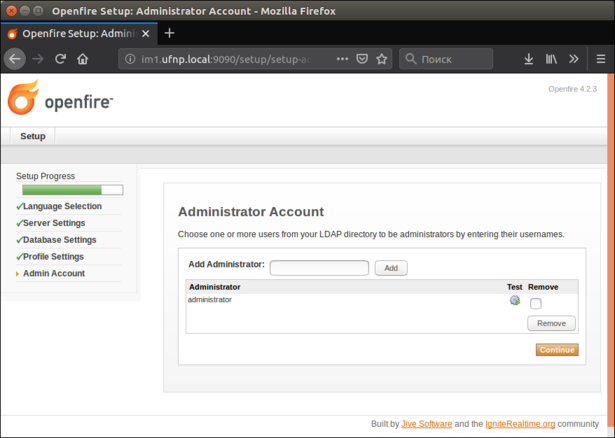
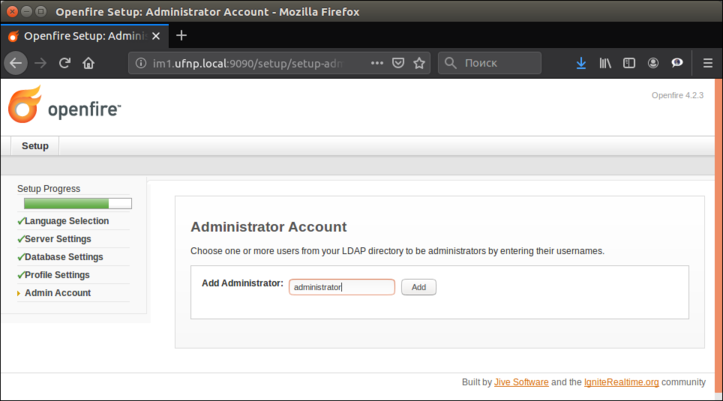
закончил писать резюме, ред.1

diff --git a/openfire.htm b/openfire.htm
@@ -50,7 +50,7 @@
 <!-- Основное содержание / начало -->
 <div id="content">
 <h1>Openfire+LDAP и Spark+SSO via GSSAPI</h1>
-<address>Последнее изменение: 06/09/2019 10:43:38</address>
+<address>Последнее изменение: 06/09/2019 11:28:10</address>
 <p>У меня всё заработало в конфигурации:</p>
 
 <ul>
@@ -64,23 +64,23 @@
 
 <p>Мастер конфигурации будет запущен при первом обращении к веб-интерфейсу. Будем настраивать по порядку в соответствие со скринами ниже:</p>
 
-<p>Язык по желанию, я оставляю английский. <span class="center"><img src="files/openfire_setup_1.png" style="width: 615px; height: 628px;" alt="Image:openfire_setup_1.png" title="Image:openfire_setup_1.png" /></span></p>
+<p>Язык по желанию, я оставляю английский. <span class="center"><img src="files/openfire_setup_1.png" style="width: 723px; height: 664px;" alt="Image:openfire_setup_1.png" title="Image:openfire_setup_1.png" /></span></p>
 
-<p>XMPP Domain Name совпадает с именем домена Windows, в поле FQDN указыаем dns-имя сервера с развернутой службой Openfire. Убедитесь, что записи (A и PTR) в прямой и обратной зоне соответственно присутствуют и корректны. <span class="center"><img src="files/openfire_setup_2.png" style="width: 615px; height: 556px;" alt="Image:openfire_setup_2.png" title="Image:openfire_setup_2.png" /></span></p>
+<p>XMPP Domain Name совпадает с именем домена Windows, в поле FQDN указыаем dns-имя сервера с развернутой службой Openfire. Убедитесь, что записи (A и PTR) в прямой и обратной зоне соответственно присутствуют и корректны. <span class="center"><img src="files/openfire_setup_2.png" style="width: 723px; height: 589px;" alt="Image:openfire_setup_2.png" title="Image:openfire_setup_2.png" /></span></p>
 
-<p>Оставляем флаг на Standart Database Connection. <span class="center"><img src="files/openfire_setup_3.png" style="width: 615px; height: 447px;" alt="Image:openfire_setup_3.png" title="Image:openfire_setup_3.png" /></span></p>
+<p>Оставляем флаг на Standart Database Connection. <span class="center"><img src="files/openfire_setup_3.png" style="width: 723px; height: 476px;" alt="Image:openfire_setup_3.png" title="Image:openfire_setup_3.png" /></span></p>
 
-<p>Строка подключения к БД должна выглядеть следующим образом: "jdbc:mysql://db1.domain.local:3306/openfire?rewriteBatchedStatements=true&characterEncoding=UTF-8&characterSetResults=UTF-8", где db1.domain.local &mdash; имя сервера СУБД, а openfire &mdash; имя базы данных. При необходимости в конце можно дописать таймзону: "...&serverTimezone=Asia/Novosibirsk". В полях username и password указываем реквизиты пользователя, имеющего права на создание таблиц и записей в БД openfire. <span class="center"><img src="files/openfire_setup_4.png" style="width: 615px; height: 615px;" alt="Image:openfire_setup_4.png" title="Image:openfire_setup_4.png" /></span></p>
+<p>Строка подключения к БД должна выглядеть следующим образом: "jdbc:mysql://db1.domain.local:3306/openfire?rewriteBatchedStatements=true&characterEncoding=UTF-8&characterSetResults=UTF-8", где db1.domain.local &mdash; имя сервера СУБД, а openfire &mdash; имя базы данных. При необходимости в конце можно дописать таймзону: "...&serverTimezone=Asia/Novosibirsk". В полях username и password указываем реквизиты пользователя, имеющего права на создание таблиц и записей в БД openfire. <span class="center"><img src="files/openfire_setup_4.png" style="width: 723px; height: 656px;" alt="Image:openfire_setup_4.png" title="Image:openfire_setup_4.png" /></span></p>
 
-<p>В качестве источника данных о пользователях XMPP-домена будем использовать LDAP-каталог. <span class="center"><img src="files/openfire_setup_5.png" style="width: 615px; height: 460px;" alt="Image:openfire_setup_5.png" title="Image:openfire_setup_5.png" /></span></p>
+<p>В качестве источника данных о пользователях XMPP-домена будем использовать LDAP-каталог. <span class="center"><img src="files/openfire_setup_5.png" style="width: 723px; height: 485px;" alt="Image:openfire_setup_5.png" title="Image:openfire_setup_5.png" /></span></p>
 
-<p>В поле Host указываем dns-имя контроллера домена Windows. В секции Authentication логин и пароль администратора домена. <span class="center"><img src="files/openfire_setup_6.png" style="width: 615px; height: 615px;" alt="Image:openfire_setup_6.png" title="Image:openfire_setup_6.png" /></span></p>
+<p>В поле Host указываем dns-имя контроллера домена Windows. В секции Authentication логин и пароль администратора домена. <span class="center"><img src="files/openfire_setup_6.png" style="width: 723px; height: 656px;" alt="Image:openfire_setup_6.png" title="Image:openfire_setup_6.png" /></span></p>
 
 <p>Следующие два шага пропускаем, оставляя всё без изменений. В качестве логина будет использоваться значение атрибута sAMAccountName, в списке контактов пользователь будет отображаться в соответствие со значением атрибута displayName.</p>
 
-<p>Далее добавляем пользователей из числа доменных, какие будут иметь доступ к веб-интерфейсу Openfire и права администратора службы. <span class="center"><img src="files/openfire_setup_7.png" style="width: 615px; height: 438px;" alt="Image:openfire_setup_7.png" title="Image:openfire_setup_7.png" /></span></p>
+<p>Далее добавляем пользователей из числа доменных, какие будут иметь доступ к веб-интерфейсу Openfire и права администратора службы. <span class="center"><img src="files/openfire_setup_7.png" style="width: 723px; height: 401px;" alt="Image:openfire_setup_7.png" title="Image:openfire_setup_7.png" /></span> <span class="center"><img src="files/openfire_setup_8.png" style="width: 723px; height: 479px;" alt="Image:openfire_setup_8.png" title="Image:openfire_setup_8.png" /></span></p>
 
-<p>Первоначальная конфигурация закончена. Логинимся и переходим к настройке аутентификации через GSSAPI в связке с Kerberos. <span class="center"><img src="files/openfire_setup_8.png" style="width: 615px; height: 344px;" alt="Image:openfire_setup_8.png" title="Image:openfire_setup_8.png" /></span></p>
+<p>Первоначальная конфигурация закончена. Логинимся и переходим к настройке аутентификации через GSSAPI в связке с Kerberos. <span class="center"><img src="files/openfire_setup_9.png" style="width: 723px; height: 362px;" alt="Image:openfire_setup_9.png" title="Image:openfire_setup_9.png" /></span></p>
 
 <dl>
 <dt>Важно!</dt>
